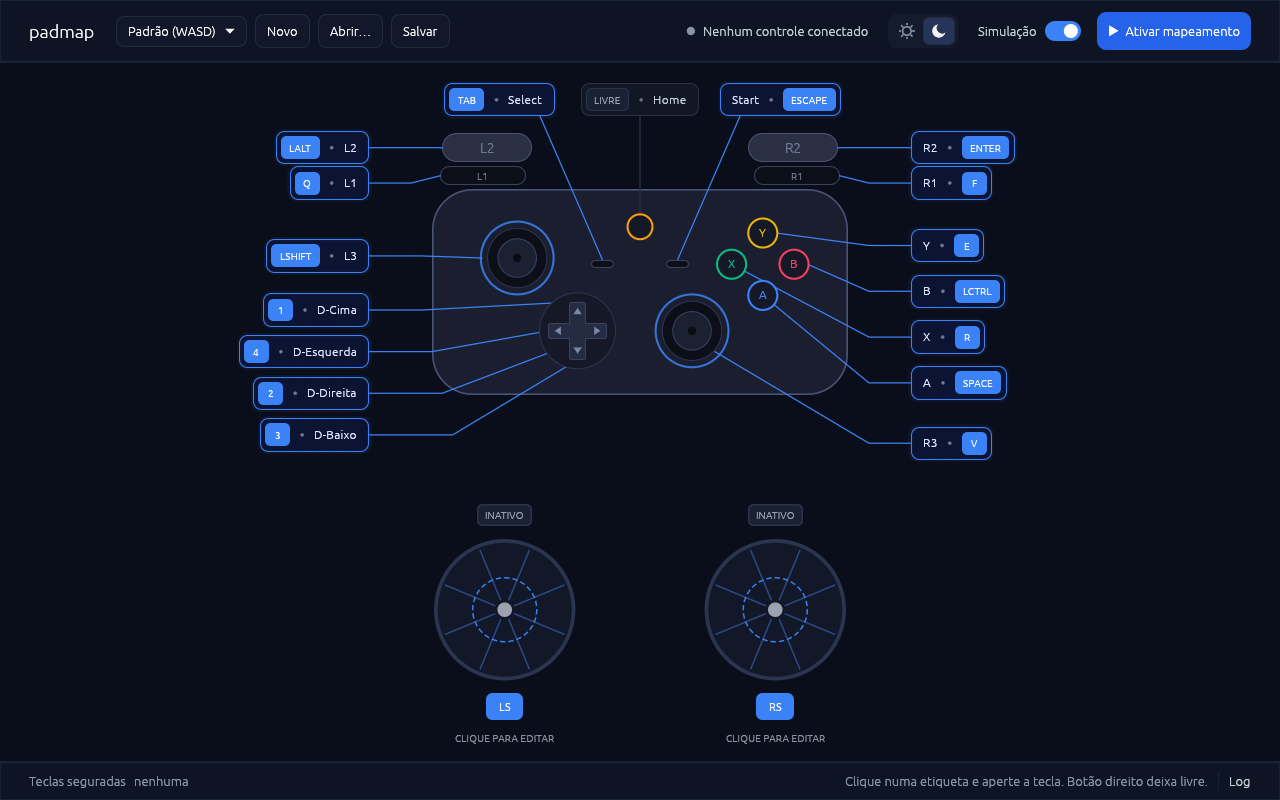
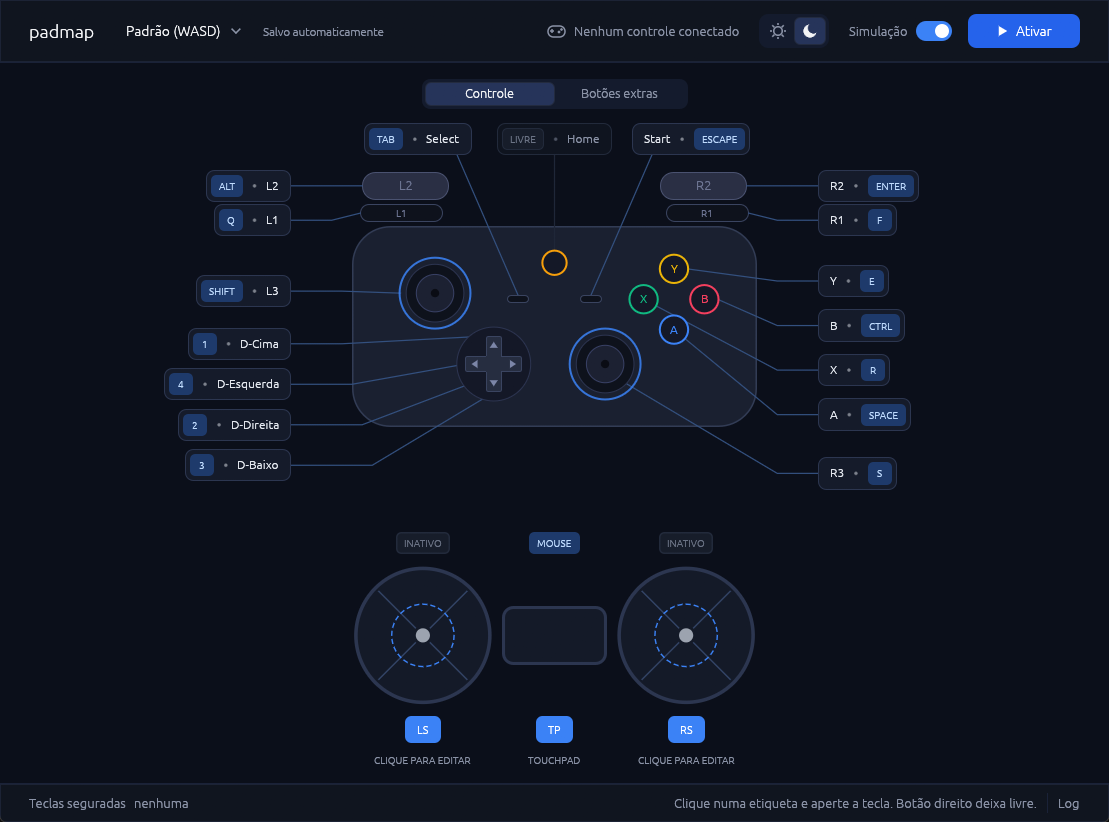
docs: prepare the repository for github

diff --git a/README.md b/README.md
@@ -1,9 +1,31 @@
 # padmap
 
-Mapeia qualquer controle (Xbox, PlayStation, Switch ou genérico) para o
-teclado. Windows primeiro, com Linux e macOS já previstos na arquitetura.
+[![CI](https://github.com/walter-souza/padmap/actions/workflows/ci.yml/badge.svg)](https://github.com/walter-souza/padmap/actions/workflows/ci.yml)
+[![Licença: MIT](https://img.shields.io/badge/licen%C3%A7a-MIT-blue.svg)](LICENSE)
 
-> Nome provisório. Estado: primeira versão com interface gráfica, ainda em testes.
+Mapeia qualquer controle (Xbox, PlayStation, Switch ou genérico) para teclado e
+mouse, para jogar com controle o que só aceita teclado. Windows primeiro; Linux
+e macOS já compilam.
+
+- Botões, gatilhos, sticks por setores de ângulo e combinações (`Ctrl+S`, `A+B`).
+- Stick ou touchpad como mouse, e botões que clicam o mouse.
+- Touchpad em zonas, como trackpad ou por gestos.
+- Botões extras: traseiros, turbo, modo, qualquer botão que o controle mande.
+- Perfis em TOML, editados na interface ou à mão, com modo claro e escuro.
+
+> Estado: primeira versão, em testes com controles reais.
+
+![Tela principal no modo escuro](docs/tela-principal-escura.png)
+
+## Baixar
+
+Cada push na `main` gera os executáveis no [CI](https://github.com/walter-souza/padmap/actions/workflows/ci.yml):
+abra a execução mais recente e baixe o artefato do seu sistema. No Windows é um
+`padmap.exe` só, sem instalar nada (o SDL e o runtime do Visual C++ vão dentro
+dele). Como o executável não é assinado, o Windows pode mostrar "O Windows
+protegeu o computador": clique em "Mais informações" e em "Executar assim mesmo".
+
+Para compilar você mesmo, veja [Compilando](#compilando).
 
 ## Como funciona
 
@@ -28,7 +50,9 @@ cargo run --release -p padmap-gui
   gatilhos conforme você mexe no controle. A etiqueta da tecla que está sendo
   enviada fica destacada. O controle conectado aparece no topo.
 - **Touchpad:** o touchpad do controle (DualShock 4, DualSense e outros) fica
-  entre os dois sticks. Clique nele para escolher um modo:
+  entre os dois sticks. Ele só aparece quando o controle conectado tem
+  touchpad (ou, sem controle, se o perfil já o mapeia). Clique nele para
+  escolher um modo:
   - **Zonas:** o touchpad dividido em zonas (inteiro, metades, colunas,
     quadrantes ou uma grade de até 4 × 3), cada uma com uma tecla. A zona
     aciona ao apertar o touchpad, na zona sob o dedo, ou já ao encostar.
@@ -91,14 +115,14 @@ cargo run --release -p padmap-gui
 - **Modo claro e escuro:** o botão de sol e lua no topo troca o tema, e a
   escolha fica salva para a próxima vez.
 
-![Tela principal no modo escuro](docs/tela-principal-escura.png)
-
 A sensibilidade dos gatilhos e a histerese continuam no perfil
 (`axis_threshold` e `release_ratio`).
 
 O mapeamento continua funcionando com a janela minimizada ou com o jogo em primeiro plano.
 
 ## Linha de comando
+
+O mesmo mapeamento, sem janela:
 
 ```sh
 cargo build --release
@@ -199,8 +223,40 @@ como qualquer tecla (`Ctrl+MouseLeft`).
 
 ## Compilando
 
-Precisa de Rust estável, CMake e um compilador C (o SDL3 é compilado junto,
-estaticamente). No Windows, o Visual Studio Build Tools já traz os dois.
+Precisa de Rust 1.95 ou mais novo, CMake e um compilador C: o SDL3 é compilado
+junto, estaticamente, e por isso o primeiro build demora. No Windows, o Visual
+Studio Build Tools (carga "Desenvolvimento para desktop com C++") traz o
+compilador e o CMake.
+
+```sh
+cargo build --release -p padmap-gui   # target/release/padmap(.exe)
+cargo test --all
+```
+
+No Windows o resultado é um arquivo só, `target/release/padmap.exe`, que roda
+em qualquer Windows 10/11 de 64 bits sem instalar nada: o SDL e o runtime do
+Visual C++ vão dentro dele (`.cargo/config.toml`). Para compartilhar, basta
+mandar esse arquivo; os perfis não vão junto e são trocados por Exportar e
+Importar.
+
+A organização do código e as decisões de projeto estão em
+[docs/arquitetura.md](docs/arquitetura.md).
+
+## Contribuindo
+
+Issues e pull requests são bem-vindos. O CI (Windows, Linux e macOS) exige:
+
+```sh
+cargo fmt --all --check
+cargo clippy --all-targets -- -D warnings
+cargo test --all
+cargo build --release
+```
+
+A lógica de mapeamento fica em `padmap-core`, que não depende de SDL nem do
+sistema, com testes. Código, comentários e mensagens são em português; as
+mensagens de commit seguem o [Conventional Commits](https://www.conventionalcommits.org/)
+em inglês. Mudanças na interface precisam funcionar no modo claro e no escuro.
 
 ## Permissões por sistema
 
@@ -208,3 +264,7 @@ estaticamente). No Windows, o Visual Studio Build Tools já traz os dois.
   administrador, o padmap também precisa rodar como administrador.
 - **Linux:** acesso de escrita a `/dev/uinput` (ex.: regra udev ou grupo `input`).
 - **macOS:** permissão de Acessibilidade para o terminal ou o app.
+
+## Licença
+
+[MIT](LICENSE).

diff --git a/docs/arquitetura.md b/docs/arquitetura.md
@@ -14,7 +14,8 @@
 
 ```
 crates/
-  padmap-core    tipos (Button, Axis, Key), perfis TOML e o Mapper. Sem SDL nem SO; 100% testável.
+  padmap-core    tipos (Button, Axis, Key), perfis TOML, sticks, touchpad, botões
+                 extras e o Mapper. Sem SDL nem SO; 100% testável.
   padmap-input   GamepadSource: SDL3 -> InputEvent normalizado.
   padmap-output  trait OutputSink + backends:
                    windows.rs  SendInput com scancodes (KEYEVENTF_SCANCODE)
@@ -61,13 +62,30 @@ Fluxo: `GamepadSource::next_event` -> `Mapper::handle` -> `Vec<KeyAction>` -> `O
 - **Mapeamento fora da interface.** A janela do egui só é redesenhada quando
   algo muda e para quando está sem foco, então a leitura do controle e o envio
   das teclas ficam numa thread própria (`padmap-gui/src/worker.rs`).
+- **Botões extras.** O SDL dá nome aos botões que o mapeamento do controle
+  conhece; os outros (traseiros, turbo…) só aparecem como botões crus do
+  joystick. `padmap-input` lê o mapeamento (`SDL_GetGamepadBindings`) e só
+  repassa os botões crus que ele não cobre, para nenhum botão acionar duas
+  vezes. No Windows, controles em modo XInput só expõem os 11 botões do Xbox;
+  botões a mais só aparecem em outros modos (DirectInput, Switch).
+- **Touchpad.** Os toques chegam com o dedo e a posição normalizada. O `Mapper`
+  guarda onde cada dedo está e onde encostou, e o touchpad tem três modos:
+  zonas (uma grade com uma tecla por zona, que fica a mesma até o dedo sair),
+  mouse (o deslocamento do primeiro dedo entra no próximo `tick`) e gestos (a
+  direção em que o dedo andou mais, depois de uma distância mínima). O `y` é
+  multiplicado pela proporção do touchpad (2:1) para medir as duas direções na
+  mesma escala.
 - **SDL enxuto.** O SDL é compilado sem vídeo, áudio, render e GPU; só
   joystick, gamepad, HIDAPI e eventos.
+- **Executável único no Windows.** O SDL é linkado estático e o runtime do
+  Visual C++ também (`.cargo/config.toml`). O CMake ignora o `crt-static` do
+  Rust, então um arquivo de toolchain (`.cargo/msvc-static-crt.cmake`) faz o
+  SDL usar o mesmo runtime.
 
 ## Próximos passos
 
-1. Testar em Windows com controles reais (Xbox, DualSense, genérico).
+1. Mais testes com controles reais (Xbox, DualSense, Switch, genéricos).
 2. Ícone na bandeja e troca de perfil por atalho no controle.
 3. Perfis por controle e por jogo (detectar o processo em primeiro plano).
-4. Botões que clicam o mouse, rolagem pelo stick, turbo, macros e camadas (segurar um botão muda o mapa).
-5. Instalador Windows (MSI/winget) e pacotes Linux/macOS.
+4. Rolagem pelo stick, turbo, macros e camadas (segurar um botão muda o mapa).
+5. Releases com executáveis prontos, instalador Windows (MSI/winget) e pacotes Linux/macOS.
